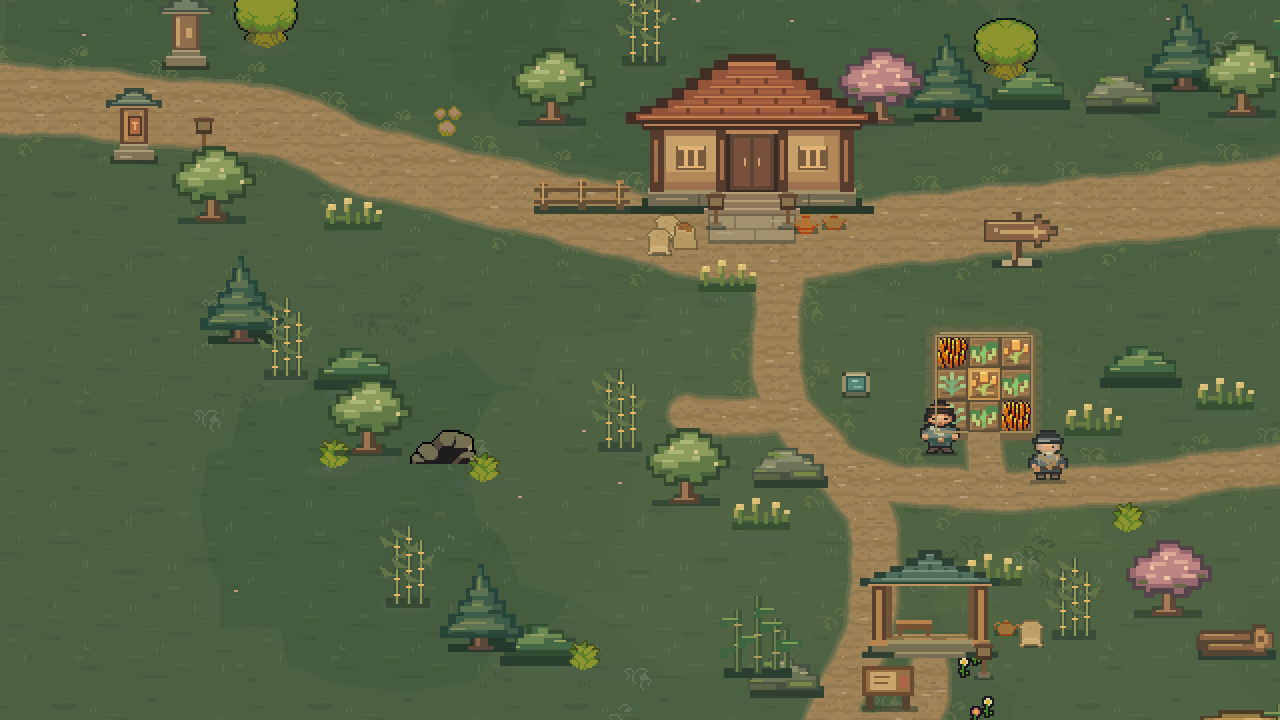
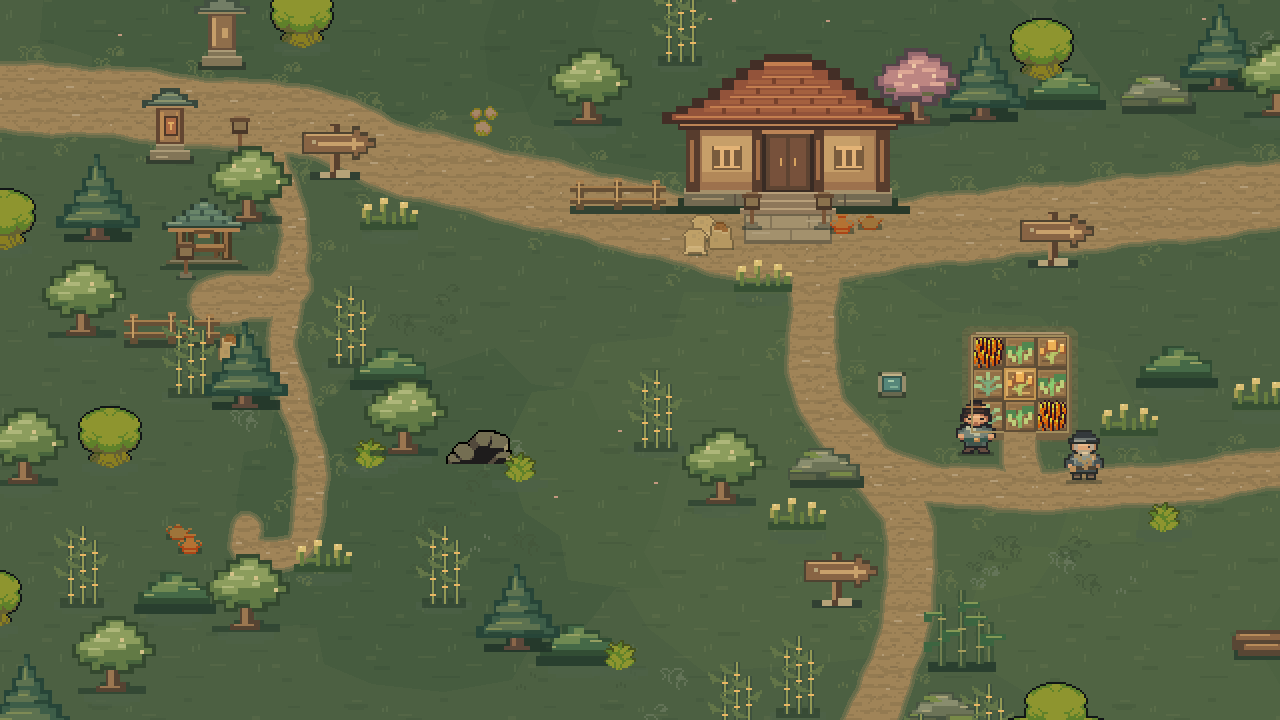
拉开井田、南路亭与南路岔口的距离

diff --git a/tasks/polish.md b/tasks/polish.md
@@ -748,3 +748,9 @@
 - 上一版第 9 天午时，陶辛在西市绸摊，开垦簿显示今日暂无可招募来客。新版显示他的当时去处和酉时的返程去处，过西关后把指引接到本人。16 点声望时显示还差 4 点，交谈后升至 21 点，可以按原价花 20 点留任。当天留任后提示第 11 天弋戎到访，回放过两夜后在原定地点相见。 [旧版开垦簿](../build/polish-recruitment-ledger/before/1024x768/01-old-recruitment-ledger.png) · [新版开垦簿](../build/polish-recruitment-ledger/final-frames/1024x768/01-merchant-at-market.png)
 - 休访日碰到渠伯回访时，开垦簿和对话都显示请回他还缺的 1 份口粮。补粮后可请回，粮留在仓里备夜。声望刚到 100 时，季青的对话会列出留任后的晋升进度 80/100，实际招募后过夜仍是下士。上一版实际保存的第 9 天存档可续玩并在西市留任陶辛，旧档与验证副本校验值一致。 [回访口粮](../build/polish-recruitment-ledger/final-frames/1024x768/04-keeper-needs-grain.png) · [晋升进度](../build/polish-recruitment-ledger/final-frames/1024x768/06-promotion-tradeoff.png) · [旧档接续](../build/polish-recruitment-ledger/previous-save/1024x768/render.log)
 - 资源导入、脚本加载、标题启动、36 项 Godot 回归与 52 项 Windows 回放通过，覆盖新档开出第二块井田、两条结局、旧档接续和 90 秒连续运行。1280×720 与 1024×768 在不可见的隔离桌面核对。首次独立试玩和完整人工通关待验收。 [Godot 回归](../build/polish-recruitment-ledger/godot-recruitment-ledger.log) · [发行验证](../build/polish-recruitment-ledger/windows-release-final.log) · [Windows 试玩包](../build/polish-recruitment-ledger/Fiefdom-recruitment-ledger-preview-Windows-x64.zip)
+
+## 从井田到南路亭
+
+- 对照《星露谷物语》的农场、连接小径和鹈鹕镇分布。封地把堂屋、井田和水源留在日常农事区，南边加一段有转弯的竹径，穿出竹丛再到南路亭。用前后两个 Windows 包从同一田口循路走到亭前，步行距离约 308 至 460 个世界像素，用时约 3.3 至 4.9 秒。亭前再过一段林缘，才到卸货、羊棚、灶台和节庆场的岔路。 [各区地图对照](../docs/game_design/06_地形系统_完整.md#地点分布与步行间隔) · [旧版步行](../build/polish-south-bamboo-lane/distance-baseline.log) · [新版步行](../build/polish-south-bamboo-lane/distance-final.log)
+- 舆图和地上标记沿新路指引，来客和运货马车也经同一条竹径。用实际脚步走到秋社台前、过关回封地见陶辛，并核对冬至、剪羊毛、晚坐和改革结局的亭前仪式。上一版手动保存的第 2 天晚间档续上后，井田内两格作物、三名门客和九份存粮均可查，到新席案仍能打开「今夜安排」。原档与验证副本的校验值一致。标题的清晨和薄暮改用新布局取景。 [旧版舆图](../build/polish-south-bamboo-lane/before/autumn-exhibit/01a-south-road-map.png) · [新版舆图](../build/polish-south-bamboo-lane/final-frames/1280x720/southern-road/01a-south-road-map.png) · [竹径实景](../build/polish-south-bamboo-lane/final-frames/1024x768/southern-road/01aa-bamboo-lane.png) · [旧档回放](../build/polish-south-bamboo-lane/previous-save/1024x768/render.log)
+- 资源导入、脚本加载、标题启动、49 个不同的 Godot 场景和 52 项 Windows 回放通过。覆盖公私田收成、两条结局和续营、旧档接续及 90 秒连续运行。1280×720 与 1024×768 的舆图和实景在不可见的隔离桌面核对。实际走图手感和完整人工通关待验收。 [路线回归](../build/polish-south-bamboo-lane/godot-south-final-routes.log) · [经营回归](../build/polish-south-bamboo-lane/godot-south-final-progress.log) · [节庆与结局回归](../build/polish-south-bamboo-lane/godot-south-final-events.log) · [发行验证](../build/polish-south-bamboo-lane/windows-release-final.log) · [Windows 试玩包](../build/polish-south-bamboo-lane/Fiefdom-south-bamboo-lane-preview-Windows-x64.zip)

diff --git a/docs/game_design/06_地形系统_完整.md b/docs/game_design/06_地形系统_完整.md
@@ -41,7 +41,7 @@
 
 西市舆图沿用实际石板路和摊前站位，按玩家坐标标出当前位置。点选粮摊、鱼摊、绸摊、收货牌或回封地，街上会显示方向箭头和金色地标。封地的买粮、交鱼和备齐的时令单先指向西关，过关后继续指向相应摊位或收货牌。存档保留所选去处，打开对应摊位或从返程关口回封地时完成指引。 [《星露谷物语》1.6 的地图位置更新](https://www.stardewvalley.net/stardew-valley-1-6-update-full-changelog/)
 
-从井田下行先到南路亭。亭前晚坐的席案在亭东小径尽头。沿竹径再往南到岔口，向西可到卸货场和交货簿，向西南沿牧道可到羊棚，向东可到灶台。完成首单后可看到灶火和热气，申禾到卸货场后也能帮忙指路。舆图点选南路去处后，街上的金线沿相应的岔路走。
+从井田沿南行道进竹径。路在竹丛间转弯，穿出竹径后到南路亭。亭西是歇脚处，亭东小径通药圃和晚坐的席案。继续沿南行道过林缘，到岔口后向西可到卸货场和交货簿，向西南沿牧道可到羊棚，向东可到灶台。完成首单后可看到灶火和热气，申禾到卸货场后也能帮忙指路。舆图点选南路去处或追踪在场人物，金线沿相应的岔路走。
 
 灶台以东的支路绕向东南空地。秋分摆秋社展台，冬至摆围炉桌。乡邻沿支路到场，玩家从南面靠近。历书和舆图指向台前站位。秋社铜簋参考了春秋时期龙耳簋的方座和双耳轮廓。 [克利夫兰艺术博物馆藏龙耳簋](https://www.clevelandart.org/art/1974.73)
 
@@ -91,7 +91,7 @@ flowchart LR
 
 新版从东口进入石板主街。第一处街角向南拐到绸摊，能见到蔡娘和陶辛。沿主街继续向西，鱼摊在通往水槽的北巷尽头，粮摊和收货牌在西头共用卸货场。按默认步速沿路从东口走，绸摊约三秒半，鱼摊约六秒，粮摊约七秒。木牌和粮摊之间留着摆货和进出车的空间。伙计上午在粮摊卸货，之后去鱼摊，傍晚经主街出东口。舆图标出实际巷道、柜台站位和接续路线。旧西市存档从东口继续，已有目标会按新街巷重新指路。
 
-旧封地南路亭到交货簿的锚点直距约 33 像素。新版把交货簿和车位放到南路卸货场，亭到交货簿的锚点直距约 147 像素。按默认步速从南路岔口沿灶台和节庆支路走到秋社台前，回放用时约四秒。西坡牧道通向羊棚门，牧坡与东南空地之间有林带。
+首块井田南田口到南路亭前的直距由 114 增至 256 个世界像素。农事区南沿的转弯接竹径，走过两侧竹丛到亭前才进入歇脚、来访与晚聚的区域。南路亭到交货簿的站位直距由约 163 增至 202 个世界像素，中间多出一段林缘路。卸货场、牧坡和节庆空地各由一条支路接入。按默认步速从南路岔口沿灶台和节庆支路走到秋社台前，回放用时约四秒。
 
 默认步速下，竹涧西门内沿林径到野果坳的采集站位，从约 1.5 秒拉到 3.2 秒。试筏埠头从沿溪小路转入，柳湾的钓点和笼桩共用上游湾口，从埠头沿岸走到柳湾从约 0.55 秒拉到 1.48 秒。木桥和浅滩之间的南北间距从 83 拉到 146 个世界像素，从砾滩回西门可走下游浅滩，从西门去望溪台可走木桥。舆图和实际山路使用同一套地形坐标，原有水迹和地点指引在续档时按新路计算。
 

diff --git a/docs/game_design/12_游戏流程设计_v2.md b/docs/game_design/12_游戏流程设计_v2.md
@@ -41,7 +41,7 @@
 
 **画面内容**
 
-- 从游戏的斜俯视镜头取景，右侧同时看到堂屋、第一块井田与南路亭。标题在同机位的清晨和薄暮之间慢慢过渡。
+- 从游戏的斜俯视镜头取景，右侧是堂屋和第一块井田，左侧是西廊和接入主路的支路。标题在同机位的清晨和薄暮之间慢慢过渡。
 - 左侧以深色渐层衬托书法标题和菜单。背景用独立图像播放光线变化，打开标题时不推进封地时辰。
 - 菜单选项：
   - 新游戏
